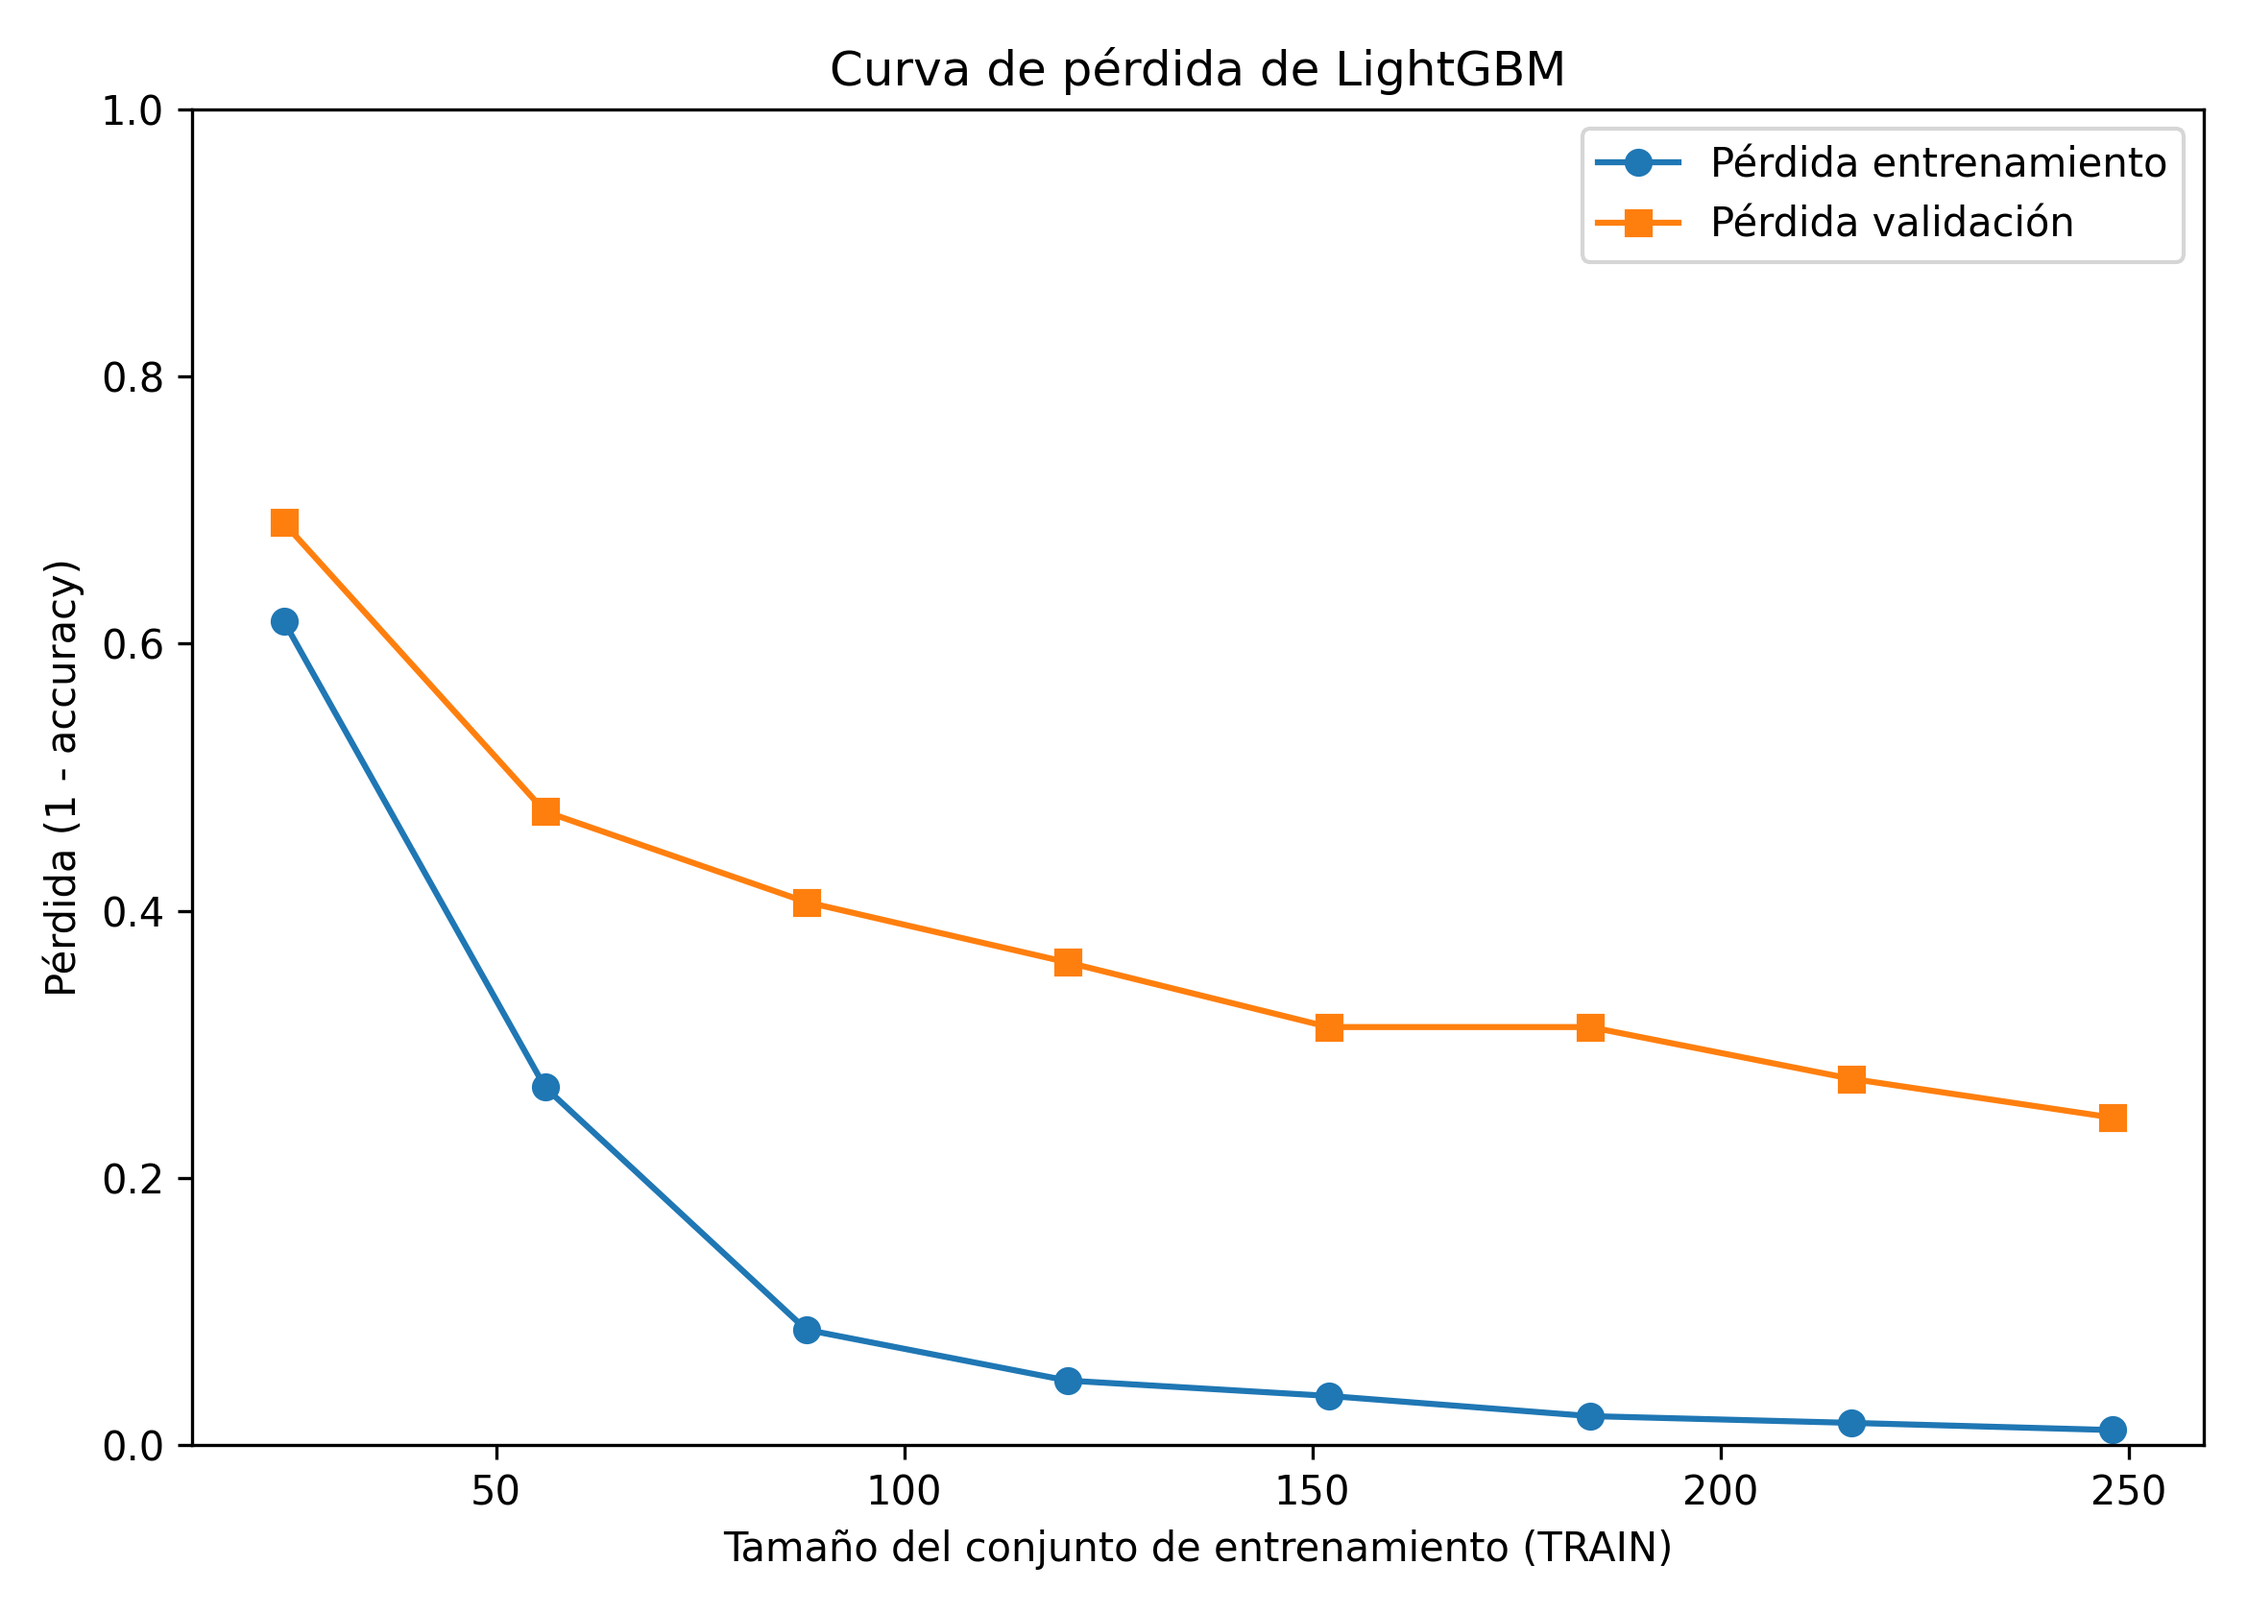
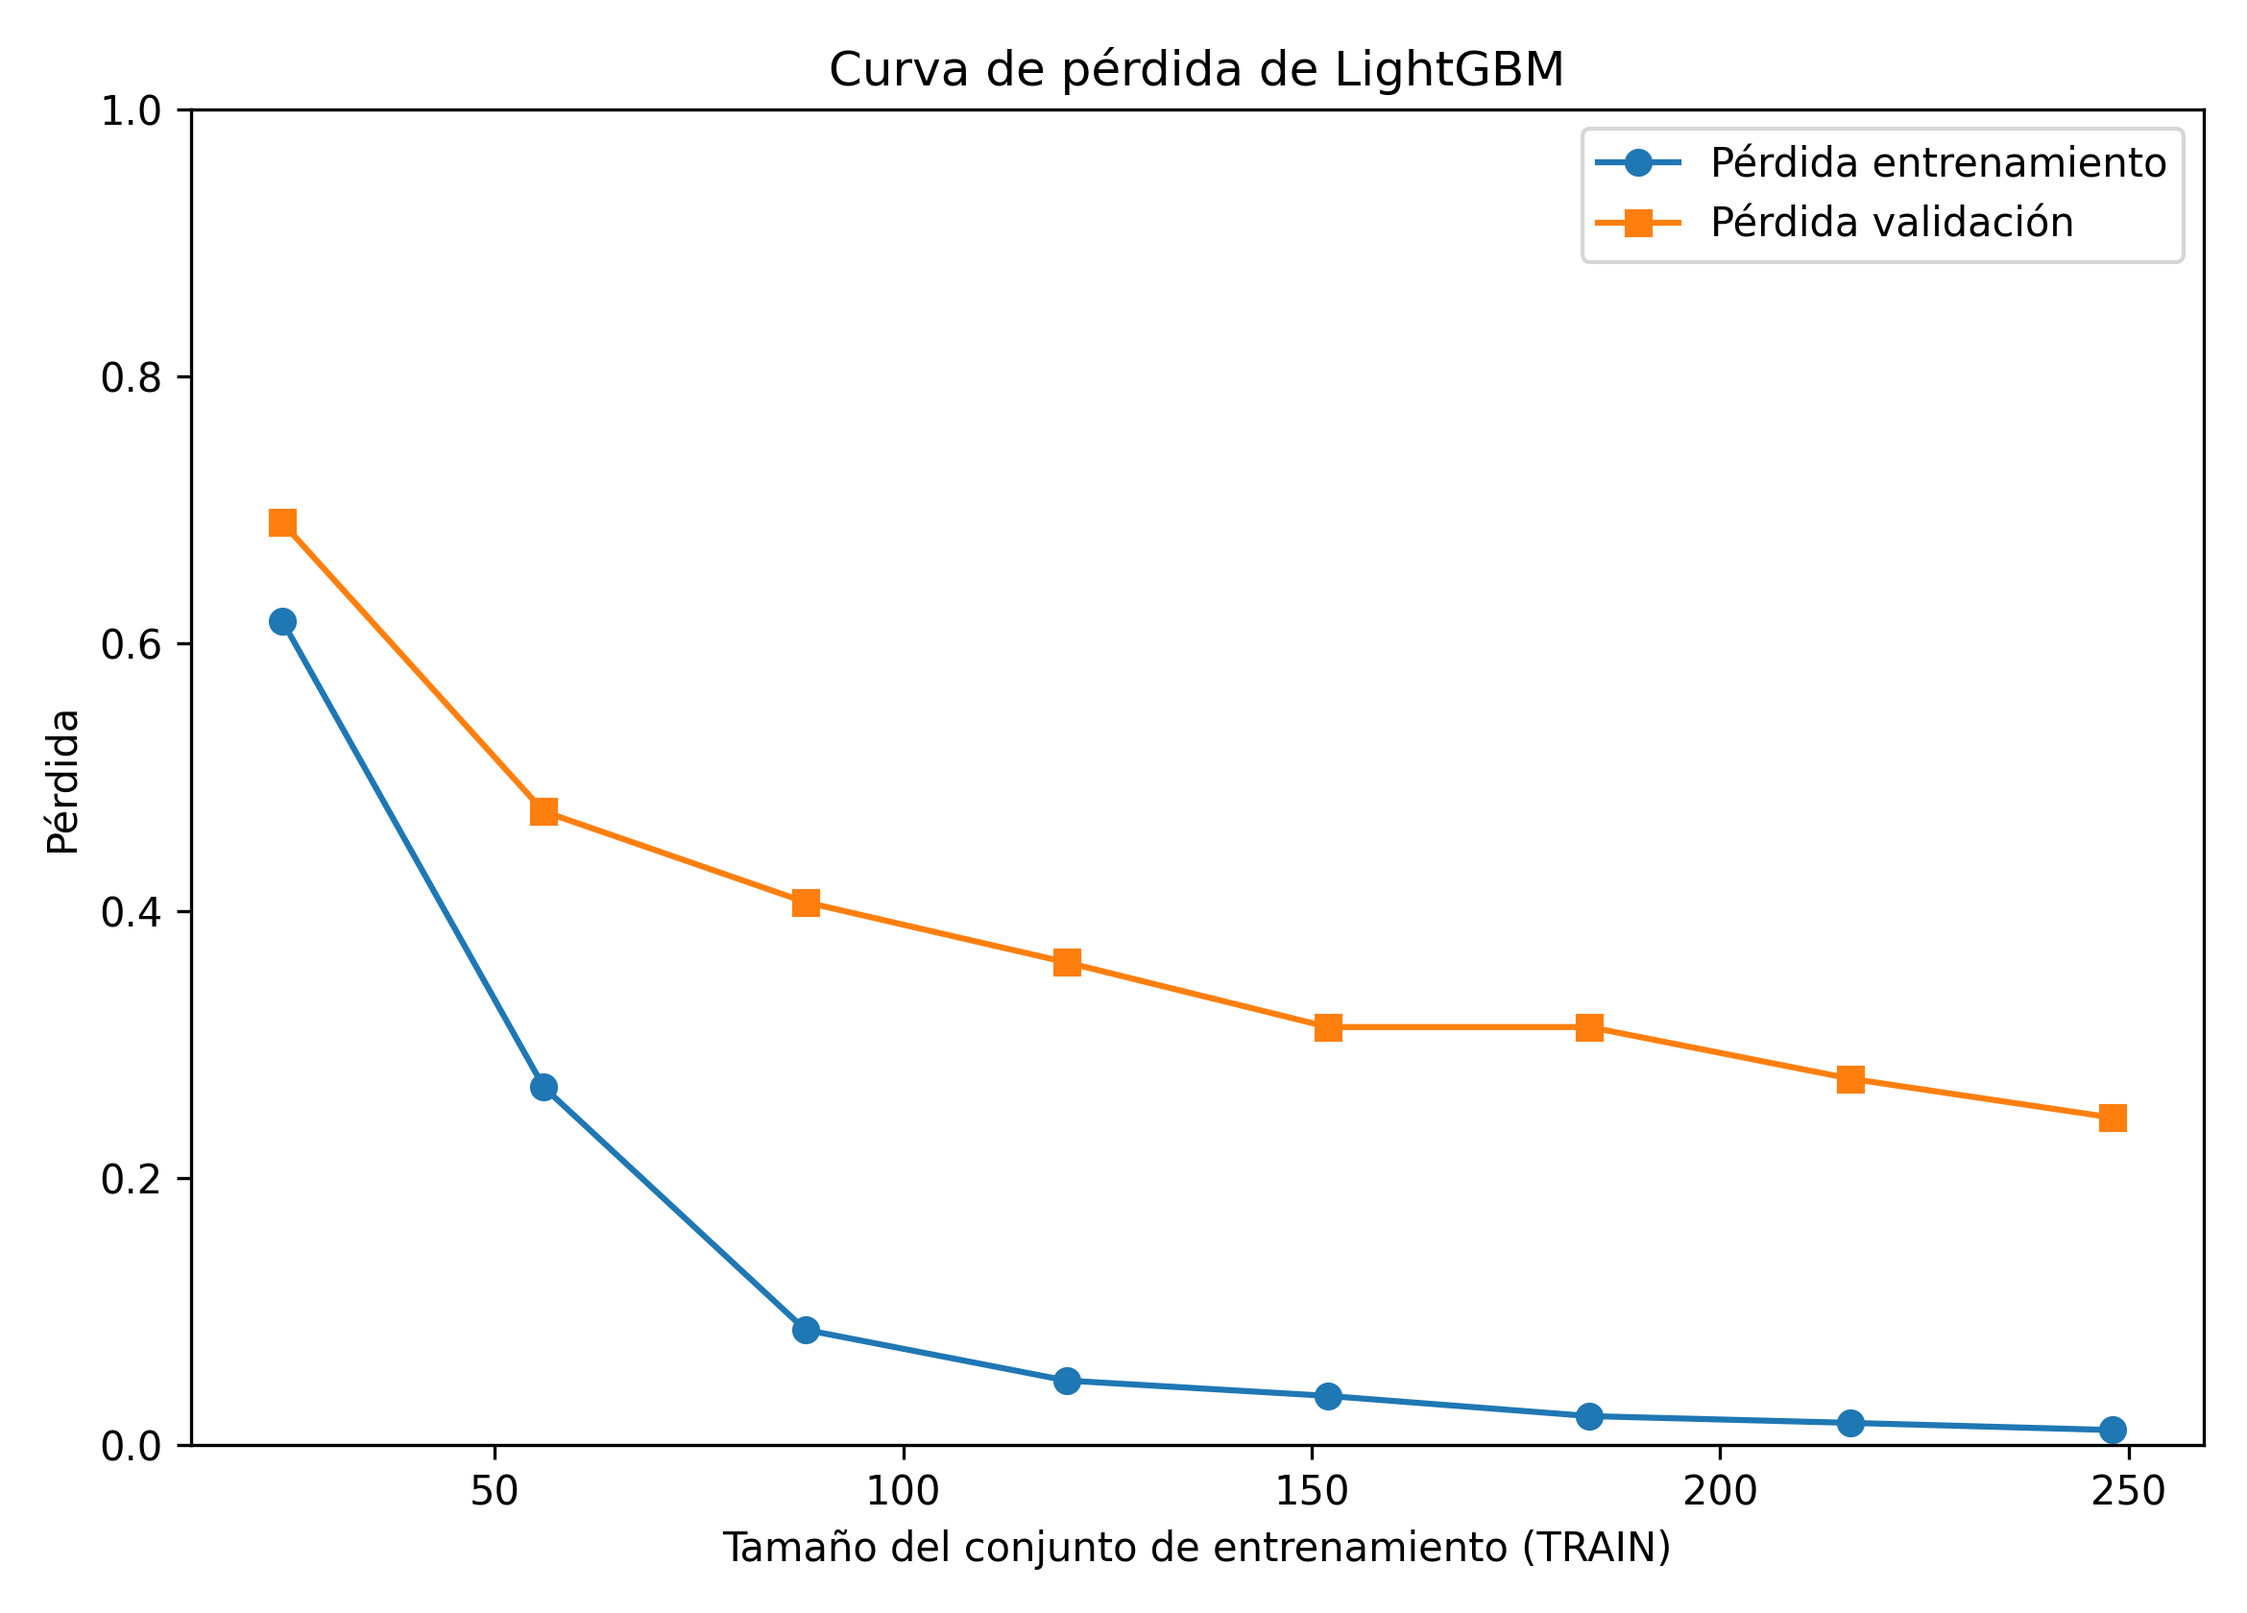
integrar modelos y encapsulamiento del modelo ganador

diff --git a/ml/LIGHTGBM/train_model_lightgbm.py b/ml/LIGHTGBM/train_model_lightgbm.py
@@ -51,16 +51,16 @@ def idx_to_name(arr_int):
 LGBM_PARAMS = dict(
     objective="multiclass",
     num_class=5,
-    learning_rate=0.05,      # un poco más bajo
-    n_estimators=200,        # menos árboles
-    num_leaves=15,           # menos hojas (modelo más simple)
-    max_depth=4,             # limitar profundidad
-    min_child_samples=20,    # mínimo de muestras por hoja
-    min_split_gain=0.01,     # ganancia mínima para hacer un split
-    subsample=0.7,           # usar solo una parte de las filas por árbol
-    colsample_bytree=0.7,    # usar solo una parte de las columnas por árbol
-    reg_alpha=0.5,           # L1 más fuerte
-    reg_lambda=1.0,          # L2 más fuerte
+    learning_rate=0.05,      
+    n_estimators=200,       
+    num_leaves=15,           
+    max_depth=4,             
+    min_child_samples=20,    
+    min_split_gain=0.01,     
+    subsample=0.7,           
+    colsample_bytree=0.7,    
+    reg_alpha=0.5,           
+    reg_lambda=1.0,          
     random_state=SEED,
     n_jobs=-1
 )
@@ -141,7 +141,7 @@ def construir_modelo_LightGBM(X_train, y_train_enc, cv, ruta_png, ruta_csv):
     plt.ylim(0.0, 1.0)
     plt.title("Curva de pérdida de LightGBM")
     plt.xlabel("Tamaño del conjunto de entrenamiento (TRAIN)")
-    plt.ylabel("Pérdida (1 - accuracy)")
+    plt.ylabel("Pérdida")
     plt.legend()
     plt.tight_layout()
     plt.savefig(RUTA_CURVA_PERDIDA_IMG, dpi=300)

diff --git a/ml/SVM/train_model_svm.py b/ml/SVM/train_model_svm.py
@@ -78,16 +78,11 @@ def construir_modelo_SVM(X_train, y_train, cv, ruta_png, ruta_csv):
         shuffle=True,
         random_state=SEED
     )
-
-    # Medias y desviaciones de accuracy
     tr_mean = train_scores.mean(axis=1); tr_std = train_scores.std(axis=1)
     va_mean = valid_scores.mean(axis=1); va_std = valid_scores.std(axis=1)
-
-    # Pérdida = 1 - accuracy
     loss_train_mean = 1.0 - tr_mean
     loss_valid_mean = 1.0 - va_mean
 
-    # Guardar todo en CSV (accuracy + pérdida)
     df_curve = pd.DataFrame({
         "train_size": sizes_abs,
         "acc_train_cv_mean": np.round(tr_mean, 4),
@@ -138,7 +133,7 @@ def construir_modelo_SVM(X_train, y_train, cv, ruta_png, ruta_csv):
     plt.ylim(0.0, 1.0)
     plt.title("Curva de pérdida — SVM (RBF)")
     plt.xlabel("Tamaño del conjunto de entrenamiento (TRAIN)")
-    plt.ylabel("Pérdida (1 - accuracy)")
+    plt.ylabel("Pérdida")
     plt.legend()
     plt.tight_layout()
     plt.savefig(RUTA_CURVA_PERDIDA_IMG, dpi=300)

diff --git a/ml/GBM/train_model_gb.py b/ml/GBM/train_model_gb.py
@@ -88,11 +88,9 @@ def construir_modelo_gbm(X_train, y_train, cv, ruta_png, ruta_csv):
     tr_mean = train_scores.mean(axis=1); tr_std = train_scores.std(axis=1)
     va_mean = valid_scores.mean(axis=1); va_std = valid_scores.std(axis=1)
 
-    # Pérdidas (1 - accuracy)
     loss_train_mean = 1.0 - tr_mean
     loss_valid_mean = 1.0 - va_mean
 
-    # Guardar CSV de curva (incluyendo pérdidas)
     df_curve = pd.DataFrame({
         "train_size": sizes_abs,
         "acc_train_cv_mean": np.round(tr_mean, 4),
@@ -138,7 +136,7 @@ def construir_modelo_gbm(X_train, y_train, cv, ruta_png, ruta_csv):
     plt.ylim(0.0, 1.0)
     plt.title("Curva de pérdida de Gradient Boosting")
     plt.xlabel("Tamaño del conjunto de entrenamiento (TRAIN)")
-    plt.ylabel("Pérdida (1 - accuracy)")
+    plt.ylabel("Pérdida")
     plt.legend()
     plt.tight_layout()
     plt.savefig(RUTA_CURVA_PERDIDA_IMG, dpi=300)

diff --git a/ml/XGBOOST/train_model_xb.py b/ml/XGBOOST/train_model_xb.py
@@ -135,7 +135,7 @@ def construir_modelo_xgb(X_train, y_train_0based, cv, ruta_png, ruta_csv):
     plt.ylim(0.0, 1.0)
     plt.title("Curva de pérdida — XGBoost")
     plt.xlabel("Tamaño del conjunto de entrenamiento (TRAIN)")
-    plt.ylabel("Pérdida (1 - accuracy)")
+    plt.ylabel("Pérdida")
     plt.legend()
     plt.tight_layout()
     plt.savefig(RUTA_CURVA_PERDIDA_IMG, dpi=300)

diff --git a/ml/CATBOOST/train_model_cb.py b/ml/CATBOOST/train_model_cb.py
@@ -142,7 +142,7 @@ def construir_modelo_catboost(X_train, y_train, cv, ruta_png, ruta_csv):
     plt.ylim(0.0, 1.0)
     plt.title("Curva de pérdida de CatBoost")
     plt.xlabel("Tamaño del conjunto de entrenamiento (TRAIN)")
-    plt.ylabel("Pérdida (1 - accuracy)")
+    plt.ylabel("Pérdida")
     plt.legend()
     plt.tight_layout()
     plt.savefig(RUTA_CURVA_PERDIDA_IMG, dpi=300)

diff --git a/ml/SVL/train_model_svl.py b/ml/SVL/train_model_svl.py
@@ -140,7 +140,7 @@ def construir_modelo_svl(X_train, y_train, cv, ruta_png, ruta_csv):
     plt.ylim(0.0, 1.0)
     plt.title("Curva de pérdida — SVM lineal")
     plt.xlabel("Tamaño del conjunto de entrenamiento (TRAIN)")
-    plt.ylabel("Pérdida (1 - accuracy)")
+    plt.ylabel("Pérdida")
     plt.legend()
     plt.tight_layout()
     plt.savefig(RUTA_CURVA_PERDIDA_IMG, dpi=300)
